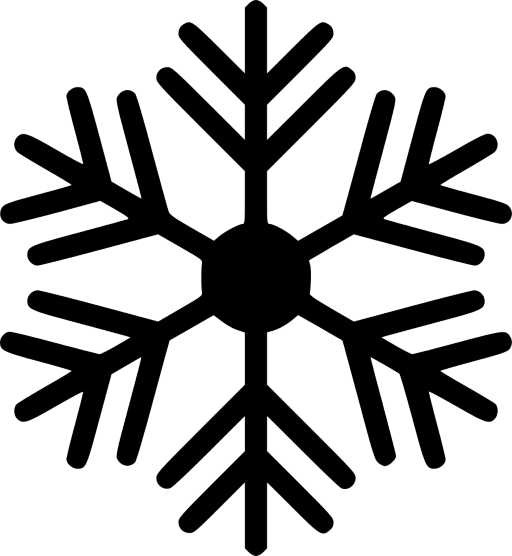
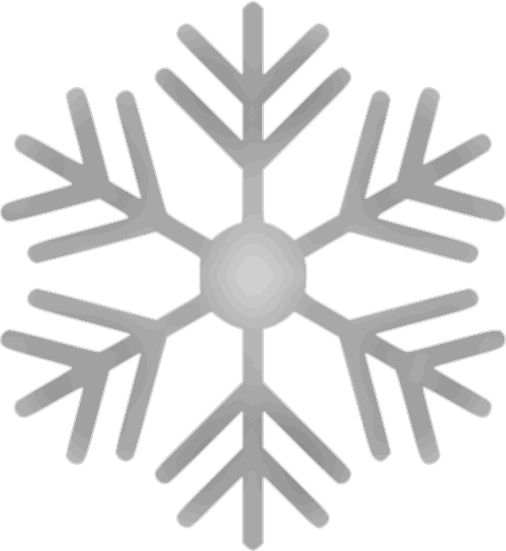
change snow image to white color

diff --git a/2021-2-WebProg-C1-HW11-최창환-32184731/2021-2-WebProg-C1-HW11-최창환-32184731.html b/2021-2-WebProg-C1-HW11-최창환-32184731/2021-2-WebProg-C1-HW11-최창환-32184731.html
@@ -1,83 +1,77 @@
-<!--Open Challenge 09 Assignment-->
-<!-- 2021-2-WebProg-C1-HW9-최창환-32184731 By Choi / 32184731@dankook.ac.kr -->
+<!--Open Challenge 10 Assignment-->
+<!-- 2021-2-WebProg-C1-HW11-최창환-32184731 By Choi / 32184731@dankook.ac.kr -->
 <!DOCTYPE html>
 <html>
 <head>
 	<meta charset="UTF-8">
-	<title>2021-2-WebProg-C1-HW9-최창환-32184731</title>
+	<title>2021-2-WebProg-C1-HW11-최창환-32184731</title>
 	<style>
-		table{
-			border: 1px solid black;
-			border-collapse:collapse;
+		body{
+			background-image:url("https://github.com/Louis99Choi/WebPrograming/blob/main/winter.jpg?raw=true");
+			background-size:100%;
+			background-repeat:no-repeat;
 		}
-		td{
-			border: 1px solid black;
-			width:50px;
-			height:50px;
+		div{
+			position: absolute;
+			padding:0px;
+			margin:0px;
 		}
-		img{
-			width: 48px;
-			height: 48px;
+		div img{
+			position: absolute;
+			width:15px;
 		}
 	</style>
+	
 	<script>
-		var random=0;
-		//일일이 100개 가량의 셀을 직접 HTML코드로 입력하는 것은 비효율적이므로
-		//javascript코드를 이용하여 body로드 완료시에 load()함수를 호출해 실행하고
-		//tbody의 자식으로 tr을, tr의 자식으로 10개의 td를
-		//appendChild로 추가하는 과정을 10번 반복하도록하였다.
-		function load(){
-			var tbody=document.getElementById("tableBody");
+		
+		var snowflake = new Array(30);		// 눈 30개 배열
+		var x = new Array(30);				// 눈의 x좌표
+		var y = new Array(30);				// 눈의 y좌표
+		var snowHeight = new Array(30);		// 눈이 아래로 내려가는 좌표 변화
+		var snowWidth = new Array(30);		// 눈의 좌우 좌표 변화
 
-			for(var row=0;row<10;row++){
-				var tr=document.createElement("tr");
-				tbody.appendChild(tr);
-				for(var col=0;col<10;col++){
-					var td=document.createElement("td");
-					//img태그의 src를 ""로 두는 것은 표준에 맞지 않으므로 우선 모든 td에 그림을 삽입해준다.
-					//이후 visibility를 hidden으로 설정해주도록하였다.
-					td.innerHTML="<img src='https://raw.githubusercontent.com/Louis99Choi/WebPrograming/main/dku.jpg?raw=true' alt='robot'>";
-					tr.appendChild(td);
+		function snowFlake(){
+			for(var i=0;i<30;i++){
+				x[i] = Math.floor(Math.random()*window.innerWidth);
+				y[i] = Math.floor(Math.random()*window.innerHeight);
+				//눈은 아래로만 내려가므로 양수만 고려(snowWidth의 경우 음수와 양수 모두 고려)
+				snowHeight[i]=Math.random()*5+2;
+				//임의의 양수 or 음수를 통해 좌우로 이동하기 위해 -0.5를 해준다.
+				snowWidth[i] = (Math.random()-0.5)*2;
+				var div = 
+				"<div id=snow"+i+" style='top:" + x[i] + "px;left:" + y[i] + "px'><img src='https://github.com/Louis99Choi/WebPrograming/blob/main/snow.png?raw=true'></div>";
+				document.write(div);
+				snowflake[i] = document.getElementById("snow"+i);
+			}
+		}
+
+		function load() {
+			for(i=0; i<30; i++){
+				x[i] += snowWidth[i];
+				y[i] += snowHeight[i];
+				//땅에 닿으면 해당 눈의 좌표 변경
+				if(y[i] >= window.innerHeight*0.9) {
+					x[i] = Math.floor(Math.random()*window.innerWidth);
+					y[i] = 0;
 				}
+
+				snowflake[i].style.top = y[i] + "px";
+				snowflake[i].style.left = x[i] + "px";
+
+				//load() 호출 시 마다 좌우로 랜덤하게
+				snowWidth[i] = (Math.random()-0.5)*2;
 			}
-
-			for(var index=0;index<100;index++){
-				//document.images[]를 통해 웹 페이지에 있는 모든 이미지를 접근하면서
-				//click이벤트 이름과 함께 이벤트 발생을 처리할 리스너를 함께 전달해주면서 리스너를 등록한다.
-				document.images[index].addEventListener("click",changeLoc);
-				//그리고 visibility프로퍼티를 이용하여 해당 태그를 숨기도록한다.(단, 영역은 계속 차지)
-				document.images[index].style.visibility="hidden";
-			}
-
-			//셀을 위한 준비과정을 마치고 100개 중 랜덤하게 하나를 출력하도록(visible) 한다.
-			random=Math.floor(Math.random()*100);
-			document.images[random].style.visibility="visible";
-
+			//시간에 따른 웹 페이지 변화를 위해 타이머 활용
+			//50ms마다 한 번씩 load()를 호출한다.(50ms 지연 시간 후 load()호출)
 		}
-
-		//이미지에 클릭 이벤트가 발생하면 다음의 함수가 호출된다.(onclick리스너로 changeLoc()함수 등록)
-		function changeLoc(){
-			//document.images[random]은 가장 마지막에 변경된 이미지를 가리킬 것이다.
-			//이 이미지의 visibility가 visible인지, 즉 해당 태그가 출력되는지를 if문을 통해 검사하여
-			//로봇 이미지를 클릭하엿을 때만 이미지가 랜덤하게 다른 셀을 선택하도록 해준다.
-			//이를 통해 이미지가 아닌 다른 셀을 클릭하면 해당함수는 호출되지만 이미지의 위치는 바뀌지 않는다.
-			var bufImg=document.images[random];
-			if(bufImg.style.visibility=="visible"){
-				//기존 이미지를 안보이게 숨기고
-				document.images[random].style.visibility="hidden";
-				//랜덤하게 하나 골라서 보이도록(출력되도록)해준다.
-				random=Math.floor(Math.random()*100);
-				document.images[random].style.visibility="visible";
-			}
-		}
+	
 	</script>
+
 </head>
 <body onload="load()">
-<h3>마우스 클릭 연습</h3>
-<hr>
-<table>
-	<tbody id="tableBody">
-	</tbody>
-</table>
+	<script>
+		snowFlake();
+		setInterval("load()",200);
+	</script>
 </body>
 </html>
